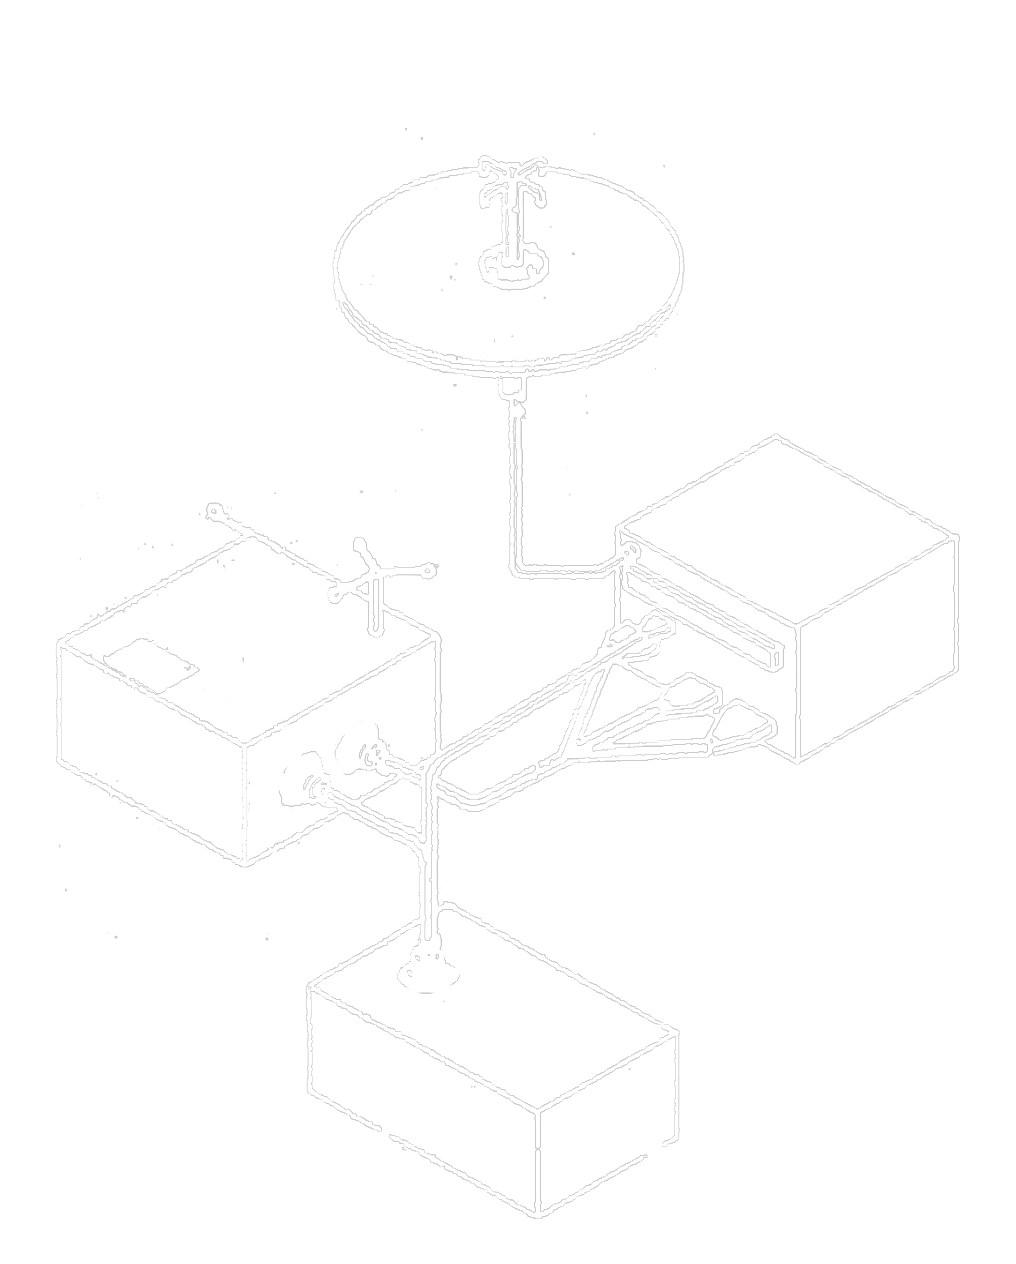
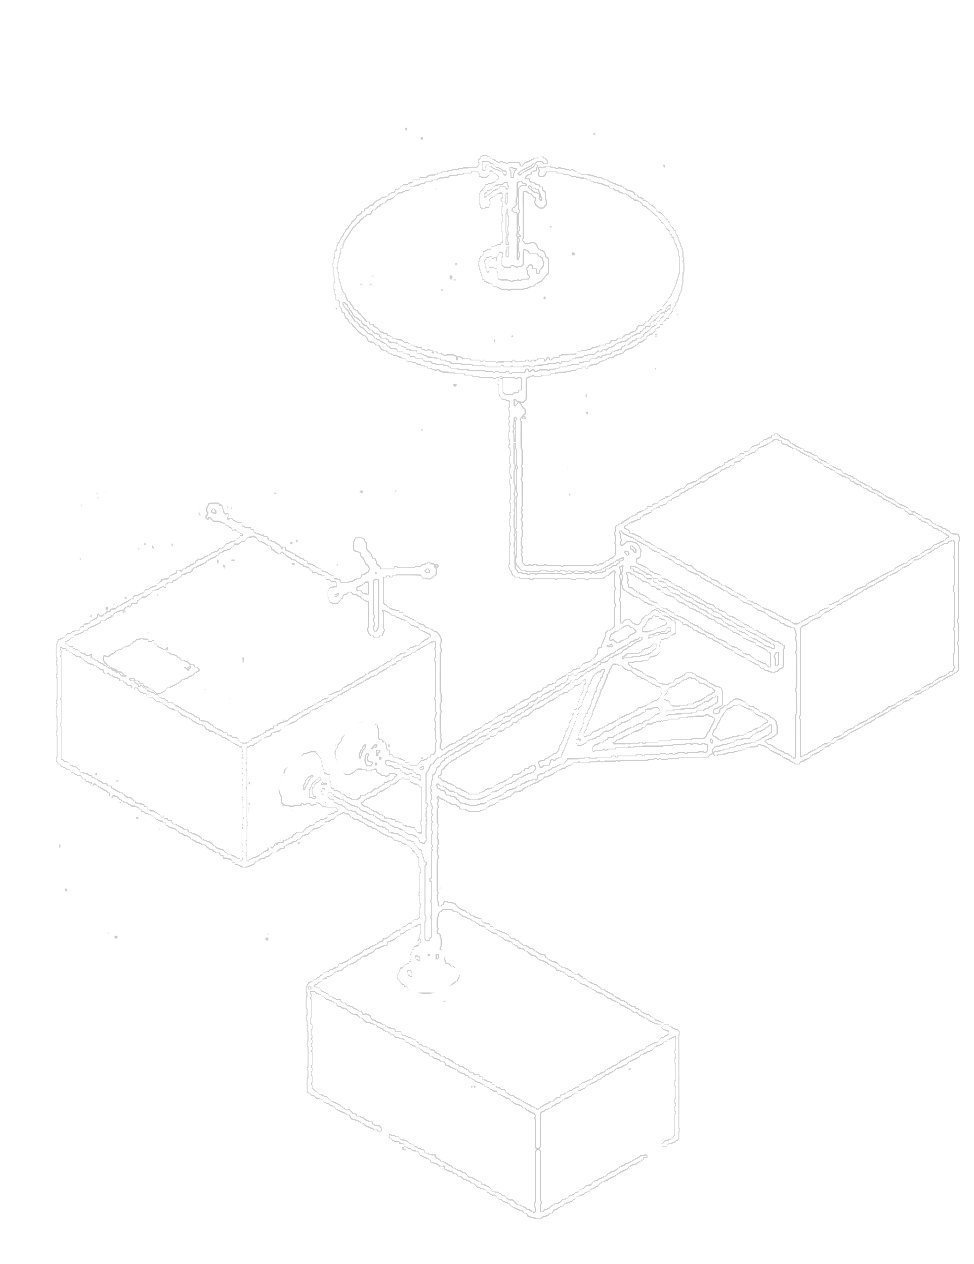
hero images

diff --git a/styles.css b/styles.css
@@ -986,7 +986,7 @@ body.tas-body #scrolly {
 .scrolly-intro-image img {
   height: min(110vh, 880px);
   width: auto;
-  opacity: 0.03;
+  opacity: 0.04;
   mix-blend-mode: screen;
   pointer-events: none;
   object-fit: contain;
